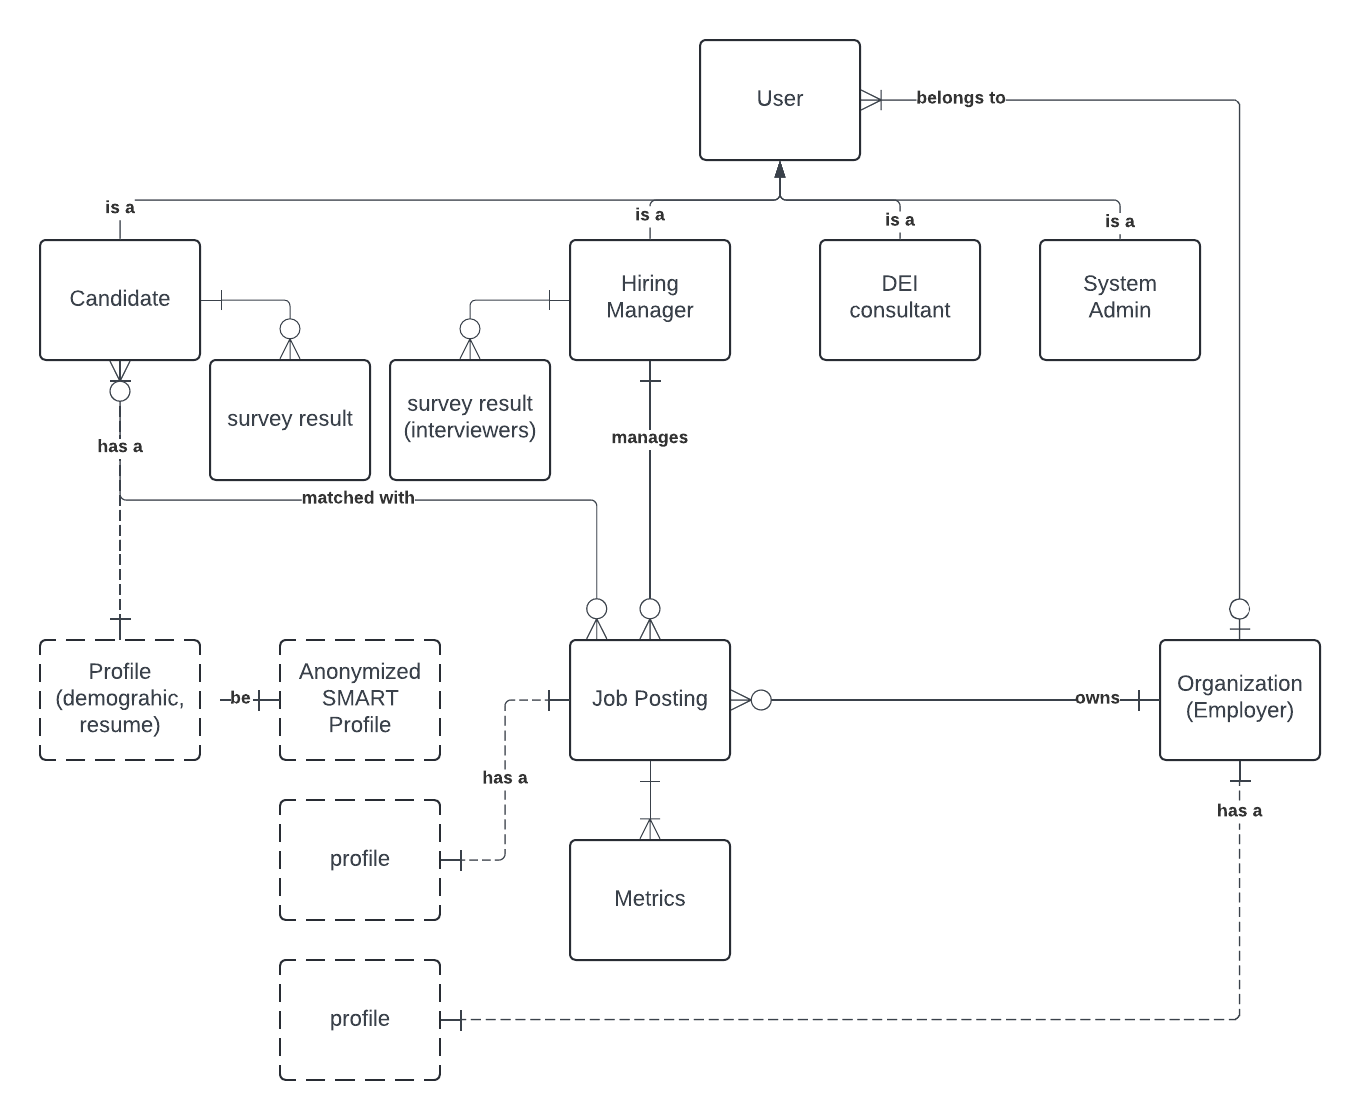
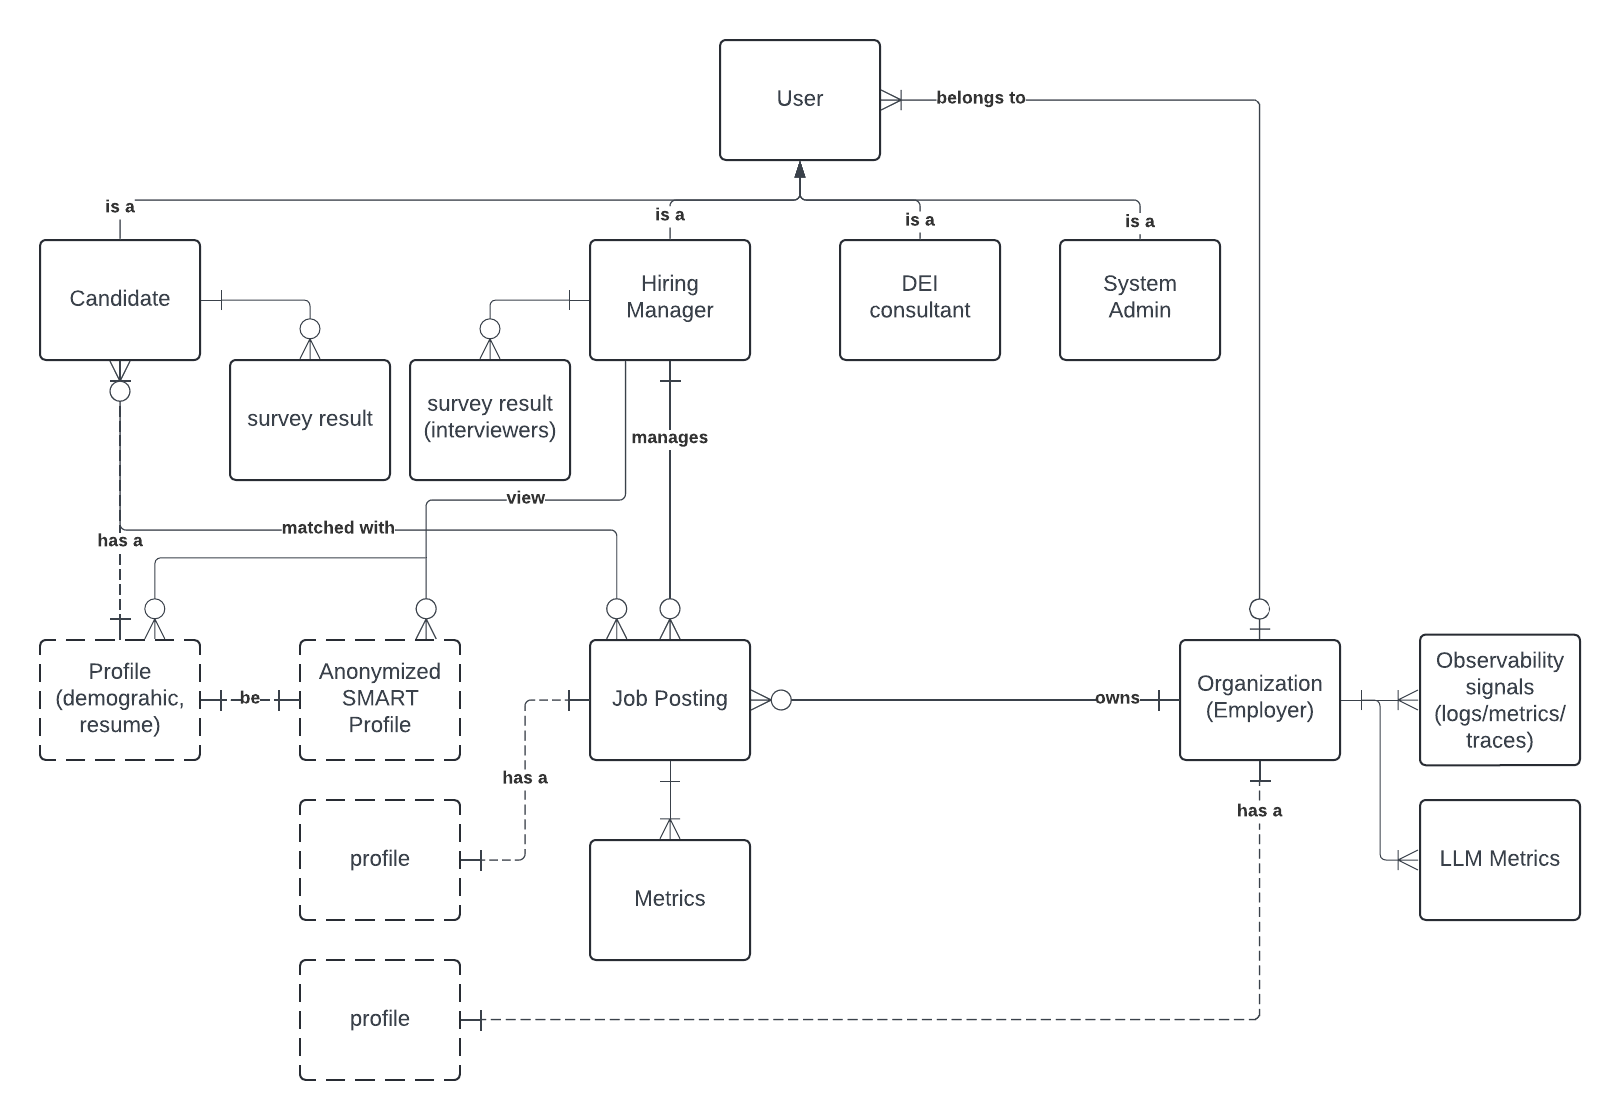
Add Arch charcteristics. Add a few more assumptions. Update Logical model and descriptions

diff --git a/README.md b/README.md
@@ -58,7 +58,7 @@ The system aims to serve the following user journeys:
   - Mark themselves as inactive if hired.
   - Submit a survey about the role and interviewer.
 
-## TODO - Requirements
+## Requirements
 ### Functional 
 The following is a list of distilled requirements
 - **REQ1**: Candidate must be able to create a profile by providing demographic, contact, and resume information.
@@ -69,37 +69,50 @@ The following is a list of distilled requirements
 - **REQ6**: Employers can post job descriptions, edit, and delete open roles in the system.
 - **REQ7**: Employers must be able to view anonymized candidate profiles with AI-generated summaries (SMART format) and match scores.
 - **REQ8**: Employers must be able to pay to unlock full candidate profiles (with demographic and PII data).
-- **REQ9**: Employers can request survey feedback from job seekers after interviews.
+- **REQ9**: Employers can request survey feedback from candidates after interviews.
 - **REQ10**: Employers must be able to access analytic reports on hiring metrics, including diversity and DEI performance. .
 - **REQ11**: Administrators must be able to generate and schedule out-of-the-box reports on KPIs, such as hiring rates, diversity trends, and performance against DEI goals.
 - **REQ12**: Administrators must manage system configurations, such as user permissions, API integrations, and data retention policies.
 
 ### Architectural Characteristics
 ![architectural-context](./resources/arch-characteristics.png)
-TODO - Add a blurb of text as to why we chose this ? 
+We chose Accuracy, Interoperability and Reliability (Composite of availability, testability, data integrity, data consistency, fault tolerance) as the driving architectural characteristics.
+- Reliability - Any cloud based software system must be available even when faults occur. Data integrity and consistency is key for any system that remembers/stores data. Testability is important for high quality and frequent software delivery.  
+- Accuracy - LLM models can hallucinate (i.e. give incorrect answers). It is important for the LLM to NOT omit key pieces of information when creating the SMART summaries. Additionally, it MUST remove bias factors from the anonymized candidate profiles.  
+- Interoperability - Given that this is a supplemental HR system, we want the components to be API driven so that connectivity and data transfer can be achieved in a standardized way with external HR systems. Additionally, intra system communication   
+
 
 ## TODO - Assumptions
 - The platform relies on the availability of APIs from HR systems for integration.
 - The Admin user is part of the Employer similar to a hiring manager. 
-- We assume that the Hiring manager is also the interviewer for the purposes of surveys. 
+- The Hiring manager is also the interviewer for the purposes of surveys.
+- The system caters to the US market and runs in a hosted cloud provider like AWS.
 
 ## WIP - Solution
 ### Logical Model
-Here is a logical model of the system that explores key entities (a logical entity and not necessarily one from database parlance) and their relationships to inform APIs and data models.
+Here is a logical model of the system that explores key entities (a logical entity and not necessarily one from database parlance) and their relationships that need to be remembered to inform APIs and data models.
+
 **Note:** Some relationships adopt crow's foot notation just for clarity's sake.
+
 **Note:** Some elements in the diagram may just be key attributes of an entity. Example: a profile is a key attribute of a Candidate.
+
+**Note:** Not all relationships need to be remembered by the system.
+
 ![katas2024 logical model.png](./resources/katas2024-logical-model.png)
-- The system has multiple user with different roles - Candidate, Hiring Manager, DEI consultant, System Admin. 
-- A user can optionally belong to an organization(employer). 
-    - A Hiring manager will belong to an organization(Employer). 
-    - A DEI consultant may belong to an organization.
+
+- The system has multiple users with different roles - Candidate, Hiring Manager, DEI consultant, System Admin. 
+- A user can optionally belong to an Organization. 
+    - A Hiring manager will belong to an Organization(Employer). 
+    - A DEI consultant may belong to an Organization.
     - A Candidate and System Admin don't necessarily belong to an employer but may be part of an internal Organization(for ex. ClearView)
 - A Hiring Manger manages a job posting that is owned by an Employer
 - A Candidate is matched with a Job Posting. 
 - A Candidate, job posting and employer each have profiles. Profiles can be private ( but viewable to a Hiring Manager post payments ) or public(anonymized view of the private profile)
 - A candidate owns the survey results posted by Hiring Managers.
 - A Hiring Manager owns the survey results posted by Candidates.
-- Metrics are collected pertaining to a particular job posting for ex. candidate acceptance/rejection, candidate unlocks.  
+- Metrics are collected pertaining to a particular job posting for ex. candidate acceptance/rejection, candidate unlocks. 
+- Observability signals are collected for System maintainability.
+- LLM Metrics are collected to ensure the Accuracy of the external LLM system.
 
 ## Architectural Style
 TODO: Reference https://www.developertoarchitect.com/downloads/architecture-styles-worksheet.pdf and our priorities and state where we landed
